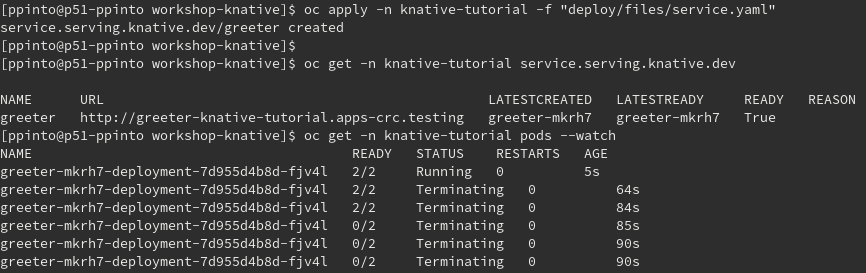
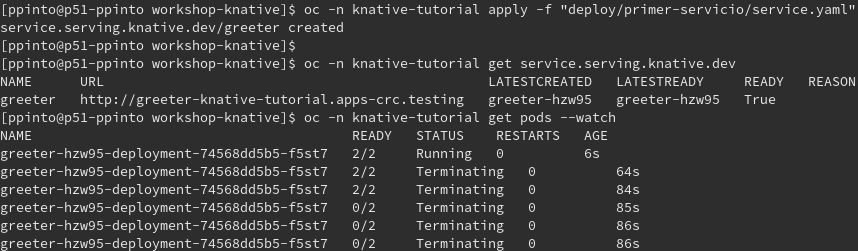
Primer Servicio - Imagenes actualizadas.

diff --git a/docs/serving/primer-servicio.md b/docs/serving/primer-servicio.md
@@ -26,25 +26,25 @@ Procedemos a crear el mismo con:
 
 *Openshift*
 ```console
-oc apply -n knative-tutorial -f "deploy/primer-servicio/service.yaml"
+oc -n knative-tutorial apply -f "deploy/primer-servicio/service.yaml"
 ```
 
 *Kubernetes*
 ```console
-kubectl apply -n knative-tutorial -f "deploy/primer-servicio/service.yaml"
+kubectl -n knative-tutorial apply -f "deploy/primer-servicio/service.yaml"
 ```
 
 Podemos validar el servicio desplegado con los siguientes comandos:
 
 *Openshift*
 ```console
-oc get -n knative-tutorial service.serving.knative.dev
-oc get -n knative-tutorial pods --watch
+oc -n knative-tutorial get service.serving.knative.dev
+oc -n knative-tutorial get pods --watch
 ```
 *Kubernetes*
 ```console
-kubectl get -n knative-tutorial service.serving.knative.dev
-kubectl get -n knative-tutorial pods --watch
+kubectl -n knative-tutorial get service.serving.knative.dev
+kubectl -n knative-tutorial get pods --watch
 ```
 > *Debido a que se está pasando la bandera `--watch` el cliente correspondiente se mantendrá esperando actualizaciones de estado. Este paso se hace con la intención de observar que al no recibir peticiones, los `pods` creados con el servicio serán terminados. Una vez esto ocurra, se puede cancelar el modo de espera con `Ctrl+C`*
 
@@ -59,11 +59,11 @@ Para poder invocar el `kservice`, primero obtenemos el `URL` mediante el cuál i
 
 *Openshift*
 ```console
-oc get -n knative-tutorial kservice greeter
+oc -n knative-tutorial get kservice greeter
 ```
 *Kubernetes*
 ```console
-kubectl get -n knative-tutorial kservice greeter
+kubectl -n knative-tutorial get kservice greeter
 ```
 
 Para activar el servicio, basta con hacerle una petición al mismo, para lo cuál utilizaremos el siguiente comando:
@@ -82,11 +82,11 @@ Si validamos a este punto los `pods`, deberíamos observar que nuevamente existe
 
 *Openshift*
 ```console
-oc get -n knative-tutorial pods
+oc -n knative-tutorial get pods
 ```
 *Kubernetes*
 ```console
-kubectl get -n knative-tutorial pods
+kubectl -n knative-tutorial get pods
 ```
 
 
@@ -170,12 +170,12 @@ Procedemos a crear el mismo con:
 
 *Openshift*
 ```console
-oc apply -n knative-tutorial -f "deploy/primer-servicio/service-env.yaml"
+oc -n knative-tutorial apply -f "deploy/primer-servicio/service-env.yaml"
 ```
 
 *Kubernetes*
 ```console
-kubectl apply -n knative-tutorial -f "deploy/primer-servicio/service-env.yaml"
+kubectl -n knative-tutorial apply -f "deploy/primer-servicio/service-env.yaml"
 ```
 
 Una vez aplicado el mismo, podemos validar que obtendremos ahora 2 `revisions` distintas al usar el comando 
